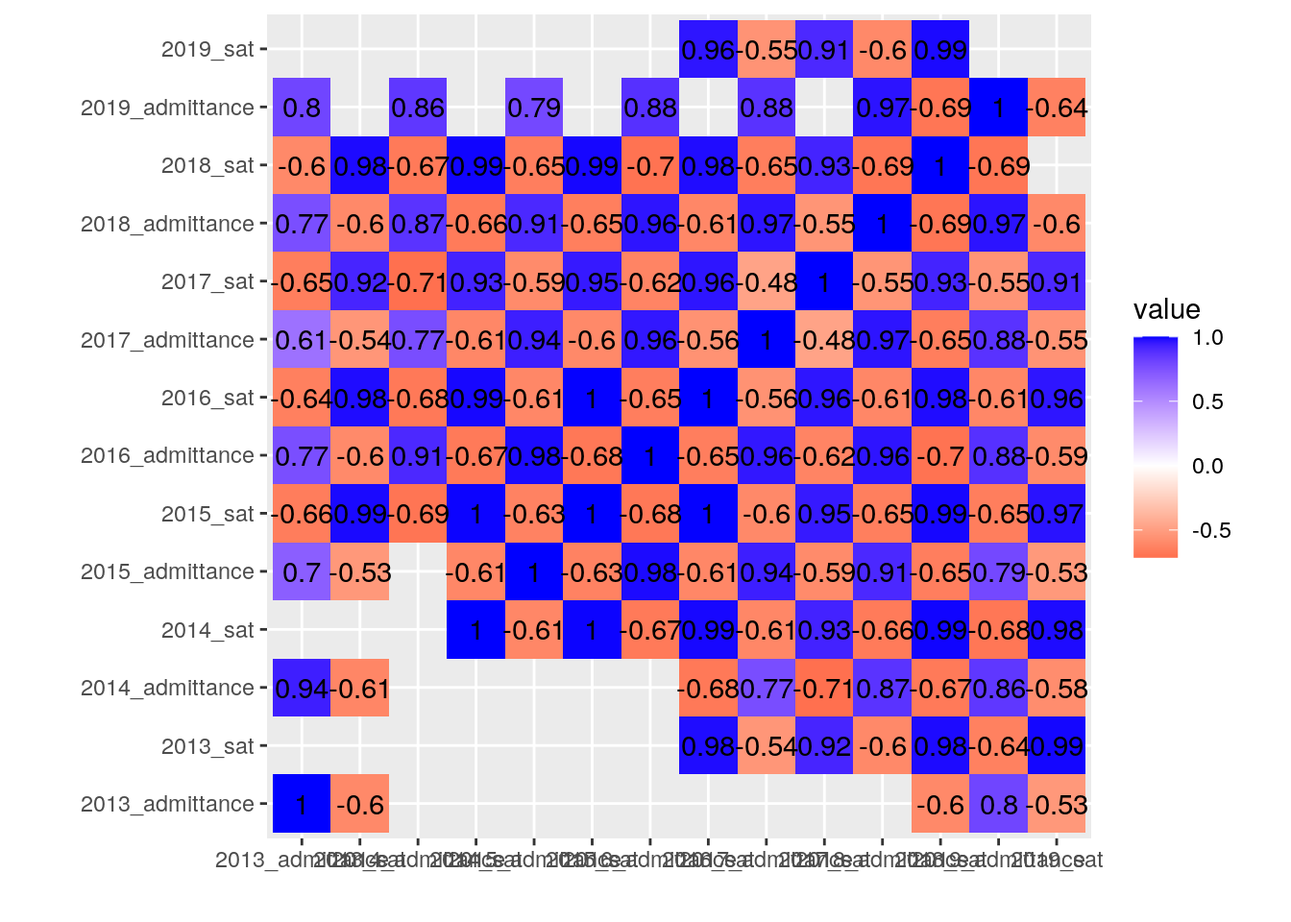
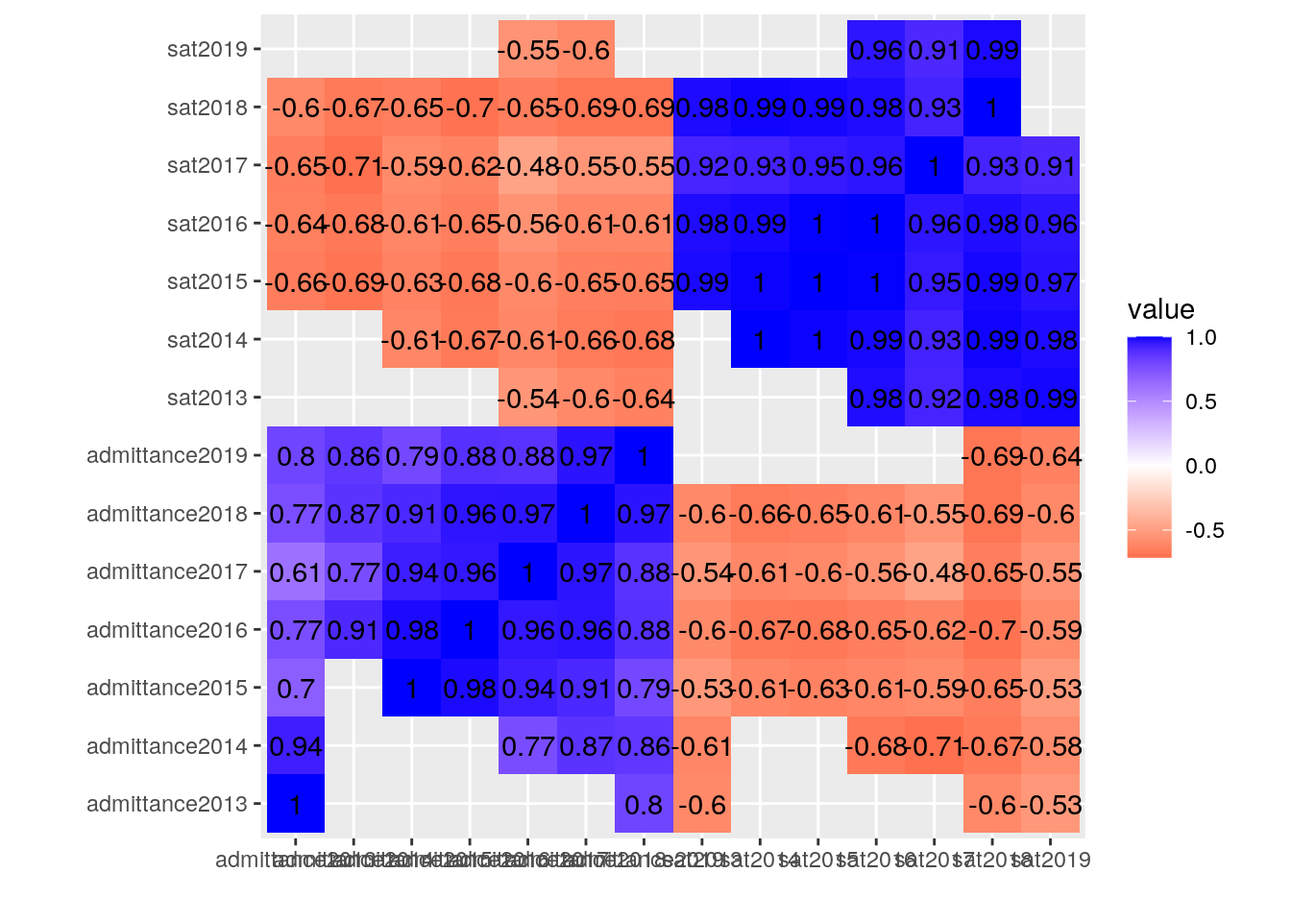
final addition

diff --git a/project/project1/index.html b/project/project1/index.html
@@ -112,91 +112,87 @@ glimpse(testscore)</code></pre>
 dataclean &lt;- data %&gt;% filter(UTBranch == &quot;UT Austin&quot; | UTBranch == 
     &quot;UT Dallas&quot; | UTBranch == &quot;UT Permian Basin&quot; | UTBranch == 
     &quot;UT San Antonio&quot; | UTBranch == &quot;UT Tyler&quot; | UTBranch == &quot;UT Arlington&quot;)
-datarenamed &lt;- dataclean %&gt;% rename(`2013_admittance` = &quot;2013.x&quot;, 
-    `2014_admittance` = &quot;2014.x&quot;, `2015_admittance` = &quot;2015.x&quot;, 
-    `2016_admittance` = &quot;2016.x&quot;, `2017_admittance` = &quot;2017.x&quot;, 
-    `2018_admittance` = &quot;2018.x&quot;, `2019_admittance` = &quot;2019.x&quot;, 
-    `2013_sat` = &quot;2013.y&quot;, `2014_sat` = &quot;2014.y&quot;, `2015_sat` = &quot;2015.y&quot;, 
-    `2016_sat` = &quot;2016.y&quot;, `2017_sat` = &quot;2017.y&quot;, `2018_sat` = &quot;2018.y&quot;, 
-    `2019_sat` = &quot;2019.y&quot;)</code></pre>
+datarenamed &lt;- dataclean %&gt;% rename(admittance2013 = &quot;2013.x&quot;, 
+    admittance2014 = &quot;2014.x&quot;, admittance2015 = &quot;2015.x&quot;, admittance2016 = &quot;2016.x&quot;, 
+    admittance2017 = &quot;2017.x&quot;, admittance2018 = &quot;2018.x&quot;, admittance2019 = &quot;2019.x&quot;, 
+    sat2013 = &quot;2013.y&quot;, sat2014 = &quot;2014.y&quot;, sat2015 = &quot;2015.y&quot;, 
+    sat2016 = &quot;2016.y&quot;, sat2017 = &quot;2017.y&quot;, sat2018 = &quot;2018.y&quot;, 
+    sat2019 = &quot;2019.y&quot;)</code></pre>
 <p>I used filter to select the data specifically for UT Austin. I then arranged the data by the branch that they were from. Next, I used select to call up only the data from 2013, but from all branches. I then went on to calculate various summary statistics for the data including means, standard deviations, medians, and inner quantile ranges.</p>
 <pre class="r"><code>datarenamed %&gt;% filter(str_detect(UTBranch, &quot;Austin&quot;))</code></pre>
 <pre><code>## # A tibble: 1 x 15
-##   UTBranch `2013_admittanc… `2014_admittanc… `2015_admittanc… `2016_admittanc…
-##   &lt;chr&gt;               &lt;dbl&gt;            &lt;dbl&gt;            &lt;dbl&gt;            &lt;dbl&gt;
-## 1 UT Aust…             45.6             45.3             43.8             46.4
-## # … with 10 more variables: `2017_admittance` &lt;dbl&gt;, `2018_admittance` &lt;dbl&gt;,
-## #   `2019_admittance` &lt;dbl&gt;, `2013_sat` &lt;int&gt;, `2014_sat` &lt;int&gt;,
-## #   `2015_sat` &lt;int&gt;, `2016_sat` &lt;int&gt;, `2017_sat` &lt;int&gt;, `2018_sat` &lt;int&gt;,
-## #   `2019_sat` &lt;int&gt;</code></pre>
+##   UTBranch admittance2013 admittance2014 admittance2015 admittance2016
+##   &lt;chr&gt;             &lt;dbl&gt;          &lt;dbl&gt;          &lt;dbl&gt;          &lt;dbl&gt;
+## 1 UT Aust…           45.6           45.3           43.8           46.4
+## # … with 10 more variables: admittance2017 &lt;dbl&gt;, admittance2018 &lt;dbl&gt;,
+## #   admittance2019 &lt;dbl&gt;, sat2013 &lt;int&gt;, sat2014 &lt;int&gt;, sat2015 &lt;int&gt;,
+## #   sat2016 &lt;int&gt;, sat2017 &lt;int&gt;, sat2018 &lt;int&gt;, sat2019 &lt;int&gt;</code></pre>
 <pre class="r"><code>datarenamed %&gt;% arrange(desc(UTBranch))</code></pre>
 <pre><code>## # A tibble: 6 x 15
-##   UTBranch `2013_admittanc… `2014_admittanc… `2015_admittanc… `2016_admittanc…
-##   &lt;chr&gt;               &lt;dbl&gt;            &lt;dbl&gt;            &lt;dbl&gt;            &lt;dbl&gt;
-## 1 UT Tyler             82.1             83.6             64.7             69.3
-## 2 UT San …             62               75.9             77.9             76.4
-## 3 UT Perm…             82.1             86.9             84.6             81.4
-## 4 UT Dall…             69.7             76.9             76.6             75.5
-## 5 UT Aust…             45.6             45.3             43.8             46.4
-## 6 UT Arli…             64.5             66.1             66.4             69.8
-## # … with 10 more variables: `2017_admittance` &lt;dbl&gt;, `2018_admittance` &lt;dbl&gt;,
-## #   `2019_admittance` &lt;dbl&gt;, `2013_sat` &lt;int&gt;, `2014_sat` &lt;int&gt;,
-## #   `2015_sat` &lt;int&gt;, `2016_sat` &lt;int&gt;, `2017_sat` &lt;int&gt;, `2018_sat` &lt;int&gt;,
-## #   `2019_sat` &lt;int&gt;</code></pre>
-<pre class="r"><code>datarenamed %&gt;% select(UTBranch, &quot;2013_admittance&quot;, &quot;2013_sat&quot;)</code></pre>
+##   UTBranch admittance2013 admittance2014 admittance2015 admittance2016
+##   &lt;chr&gt;             &lt;dbl&gt;          &lt;dbl&gt;          &lt;dbl&gt;          &lt;dbl&gt;
+## 1 UT Tyler           82.1           83.6           64.7           69.3
+## 2 UT San …           62             75.9           77.9           76.4
+## 3 UT Perm…           82.1           86.9           84.6           81.4
+## 4 UT Dall…           69.7           76.9           76.6           75.5
+## 5 UT Aust…           45.6           45.3           43.8           46.4
+## 6 UT Arli…           64.5           66.1           66.4           69.8
+## # … with 10 more variables: admittance2017 &lt;dbl&gt;, admittance2018 &lt;dbl&gt;,
+## #   admittance2019 &lt;dbl&gt;, sat2013 &lt;int&gt;, sat2014 &lt;int&gt;, sat2015 &lt;int&gt;,
+## #   sat2016 &lt;int&gt;, sat2017 &lt;int&gt;, sat2018 &lt;int&gt;, sat2019 &lt;int&gt;</code></pre>
+<pre class="r"><code>datarenamed %&gt;% select(UTBranch, &quot;admittance2013&quot;, &quot;sat2013&quot;)</code></pre>
 <pre><code>## # A tibble: 6 x 3
-##   UTBranch         `2013_admittance` `2013_sat`
-##   &lt;chr&gt;                        &lt;dbl&gt;      &lt;int&gt;
-## 1 UT Arlington                  64.5       1060
-## 2 UT Austin                     45.6       1261
-## 3 UT Dallas                     69.7       1261
-## 4 UT Permian Basin              82.1       1020
-## 5 UT San Antonio                62         1061
-## 6 UT Tyler                      82.1       1066</code></pre>
+##   UTBranch         admittance2013 sat2013
+##   &lt;chr&gt;                     &lt;dbl&gt;   &lt;int&gt;
+## 1 UT Arlington               64.5    1060
+## 2 UT Austin                  45.6    1261
+## 3 UT Dallas                  69.7    1261
+## 4 UT Permian Basin           82.1    1020
+## 5 UT San Antonio             62      1061
+## 6 UT Tyler                   82.1    1066</code></pre>
 <pre class="r"><code>datarenamed %&gt;% group_by(UTBranch)</code></pre>
 <pre><code>## # A tibble: 6 x 15
 ## # Groups:   UTBranch [6]
-##   UTBranch `2013_admittanc… `2014_admittanc… `2015_admittanc… `2016_admittanc…
-##   &lt;chr&gt;               &lt;dbl&gt;            &lt;dbl&gt;            &lt;dbl&gt;            &lt;dbl&gt;
-## 1 UT Arli…             64.5             66.1             66.4             69.8
-## 2 UT Aust…             45.6             45.3             43.8             46.4
-## 3 UT Dall…             69.7             76.9             76.6             75.5
-## 4 UT Perm…             82.1             86.9             84.6             81.4
-## 5 UT San …             62               75.9             77.9             76.4
-## 6 UT Tyler             82.1             83.6             64.7             69.3
-## # … with 10 more variables: `2017_admittance` &lt;dbl&gt;, `2018_admittance` &lt;dbl&gt;,
-## #   `2019_admittance` &lt;dbl&gt;, `2013_sat` &lt;int&gt;, `2014_sat` &lt;int&gt;,
-## #   `2015_sat` &lt;int&gt;, `2016_sat` &lt;int&gt;, `2017_sat` &lt;int&gt;, `2018_sat` &lt;int&gt;,
-## #   `2019_sat` &lt;int&gt;</code></pre>
-<pre class="r"><code>datarenamed %&gt;% summarize(mean(&quot;2015_admittance&quot;, na.rm = T), 
+##   UTBranch admittance2013 admittance2014 admittance2015 admittance2016
+##   &lt;chr&gt;             &lt;dbl&gt;          &lt;dbl&gt;          &lt;dbl&gt;          &lt;dbl&gt;
+## 1 UT Arli…           64.5           66.1           66.4           69.8
+## 2 UT Aust…           45.6           45.3           43.8           46.4
+## 3 UT Dall…           69.7           76.9           76.6           75.5
+## 4 UT Perm…           82.1           86.9           84.6           81.4
+## 5 UT San …           62             75.9           77.9           76.4
+## 6 UT Tyler           82.1           83.6           64.7           69.3
+## # … with 10 more variables: admittance2017 &lt;dbl&gt;, admittance2018 &lt;dbl&gt;,
+## #   admittance2019 &lt;dbl&gt;, sat2013 &lt;int&gt;, sat2014 &lt;int&gt;, sat2015 &lt;int&gt;,
+## #   sat2016 &lt;int&gt;, sat2017 &lt;int&gt;, sat2018 &lt;int&gt;, sat2019 &lt;int&gt;</code></pre>
+<pre class="r"><code>datarenamed %&gt;% summarize(mean(&quot;admittance2015&quot;, na.rm = T), 
     n(), n_distinct(UTBranch))</code></pre>
 <pre><code>## # A tibble: 1 x 3
-##   `mean(&quot;2015_admittance&quot;, na.rm = T)` `n()` `n_distinct(UTBranch)`
-##                                  &lt;dbl&gt; &lt;int&gt;                  &lt;int&gt;
-## 1                                   NA     6                      6</code></pre>
-<pre class="r"><code>datarenamed %&gt;% summarize(sd(&quot;2017_sat&quot;, na.rm = T), n(), n_distinct(UTBranch))</code></pre>
-<pre><code>## # A tibble: 1 x 3
-##   `sd(&quot;2017_sat&quot;, na.rm = T)` `n()` `n_distinct(UTBranch)`
-##                         &lt;dbl&gt; &lt;int&gt;                  &lt;int&gt;
-## 1                          NA     6                      6</code></pre>
-<pre class="r"><code>datarenamed %&gt;% summarize(var(&quot;2014_admittance&quot;, na.rm = T), 
-    n(), n_distinct(UTBranch))</code></pre>
-<pre><code>## # A tibble: 1 x 3
-##   `var(&quot;2014_admittance&quot;, na.rm = T)` `n()` `n_distinct(UTBranch)`
+##   `mean(&quot;admittance2015&quot;, na.rm = T)` `n()` `n_distinct(UTBranch)`
 ##                                 &lt;dbl&gt; &lt;int&gt;                  &lt;int&gt;
 ## 1                                  NA     6                      6</code></pre>
-<pre class="r"><code>datarenamed %&gt;% summarize(IQR(&quot;2016_admittance&quot;, na.rm = T), 
-    n(), n_distinct(UTBranch))</code></pre>
+<pre class="r"><code>datarenamed %&gt;% summarize(sd(&quot;sat2017&quot;, na.rm = T), n(), n_distinct(UTBranch))</code></pre>
 <pre><code>## # A tibble: 1 x 3
-##   `IQR(&quot;2016_admittance&quot;, na.rm = T)` `n()` `n_distinct(UTBranch)`
-##                                 &lt;dbl&gt; &lt;int&gt;                  &lt;int&gt;
-## 1                                  NA     6                      6</code></pre>
-<pre class="r"><code>datarenamed %&gt;% summarize(median(&quot;2019_sat&quot;, na.rm = T), n(), 
+##   `sd(&quot;sat2017&quot;, na.rm = T)` `n()` `n_distinct(UTBranch)`
+##                        &lt;dbl&gt; &lt;int&gt;                  &lt;int&gt;
+## 1                         NA     6                      6</code></pre>
+<pre class="r"><code>datarenamed %&gt;% summarize(var(&quot;admittance2014&quot;, na.rm = T), n(), 
     n_distinct(UTBranch))</code></pre>
 <pre><code>## # A tibble: 1 x 3
-##   `median(&quot;2019_sat&quot;, na.rm = T)` `n()` `n_distinct(UTBranch)`
-##   &lt;chr&gt;                           &lt;int&gt;                  &lt;int&gt;
-## 1 2019_sat                            6                      6</code></pre>
+##   `var(&quot;admittance2014&quot;, na.rm = T)` `n()` `n_distinct(UTBranch)`
+##                                &lt;dbl&gt; &lt;int&gt;                  &lt;int&gt;
+## 1                                 NA     6                      6</code></pre>
+<pre class="r"><code>datarenamed %&gt;% summarize(IQR(&quot;admittance2016&quot;, na.rm = T), n(), 
+    n_distinct(UTBranch))</code></pre>
+<pre><code>## # A tibble: 1 x 3
+##   `IQR(&quot;admittance2016&quot;, na.rm = T)` `n()` `n_distinct(UTBranch)`
+##                                &lt;dbl&gt; &lt;int&gt;                  &lt;int&gt;
+## 1                                 NA     6                      6</code></pre>
+<pre class="r"><code>datarenamed %&gt;% summarize(median(&quot;sat2019&quot;, na.rm = T), n(), 
+    n_distinct(UTBranch))</code></pre>
+<pre><code>## # A tibble: 1 x 3
+##   `median(&quot;sat2019&quot;, na.rm = T)` `n()` `n_distinct(UTBranch)`
+##   &lt;chr&gt;                          &lt;int&gt;                  &lt;int&gt;
+## 1 sat2019                            6                      6</code></pre>
 <p>Next I created a correlation heatmap of my numeric variables.</p>
 <pre class="r"><code>cors &lt;- datarenamed %&gt;% select_if(is.numeric) %&gt;% cor()
 cors[lower.tri(datarenamed)] &lt;- NA
@@ -206,39 +202,39 @@ cors %&gt;% as.data.frame %&gt;% rownames_to_column %&gt;% pivot_longer(-1) %&gt
     coord_fixed() + scale_fill_gradient2(low = &quot;red&quot;, high = &quot;blue&quot;)</code></pre>
 <p><img src="../../project/project1_files/figure-html/unnamed-chunk-4-1.png" width="672" style="display: block; margin: auto;" />
 The next plot I made was to show the relationship between</p>
-<pre class="r"><code>dataorganize1 &lt;- datarenamed %&gt;% pivot_longer(c(&quot;2013_admittance&quot;, 
-    &quot;2014_admittance&quot;, &quot;2015_admittance&quot;, &quot;2016_admittance&quot;, 
-    &quot;2017_admittance&quot;, &quot;2018_admittance&quot;, &quot;2019_admittance&quot;), 
-    names_to = &quot;admittance_year&quot;, values_to = &quot;percent_admittance&quot;)
-dataoragnize2 &lt;- dataorganize1 %&gt;% pivot_longer(c(&quot;2013_sat&quot;, 
-    &quot;2014_sat&quot;, &quot;2015_sat&quot;, &quot;2016_sat&quot;, &quot;2017_sat&quot;, &quot;2018_sat&quot;, 
-    &quot;2019_sat&quot;), names_to = &quot;year&quot;, values_to = &quot;avg_sat&quot;)</code></pre>
+<pre class="r"><code>dataorganize1 &lt;- datarenamed %&gt;% pivot_longer(c(&quot;admittance2013&quot;, 
+    &quot;admittance2014&quot;, &quot;admittance2015&quot;, &quot;admittance2016&quot;, &quot;admittance2017&quot;, 
+    &quot;admittance2018&quot;, &quot;admittance2019&quot;), names_to = &quot;admittanceyear&quot;, 
+    values_to = &quot;percentadmittance&quot;)
+dataoragnize2 &lt;- dataorganize1 %&gt;% pivot_longer(c(&quot;sat2013&quot;, 
+    &quot;sat2014&quot;, &quot;sat2015&quot;, &quot;sat2016&quot;, &quot;sat2017&quot;, &quot;sat2018&quot;, &quot;sat2019&quot;), 
+    names_to = &quot;year&quot;, values_to = &quot;avgsat&quot;)</code></pre>
 <p>Then, I made plots showing the correlation between the admittance percentage and SAT score for each year, 2013-2019, in my data set. The data for the different campuses were separated by color as indicated in the legend. You can see, by comparing the data from each year side by side, that the average admittance increased for some campuses, such as UT Arlington, and decreased for others, such as UT Austin. There are also different coordinations based on campus. For example, as UT Arlington’s admittance increased, their average SAT scores also increased, while for UT Austin, as their admissions decreased, their average SAT scores increased.</p>
-<pre class="r"><code>ggplot(datarenamed, aes(&quot;2013_admittance&quot;, &quot;2013_sat&quot;)) + geom_point(size = 4, 
+<pre class="r"><code>ggplot(datarenamed, aes(admittance2013, sat2013)) + geom_point(size = 4, 
     aes(color = UTBranch)) + ggtitle(&quot;Admittance vs. Average SAT Scores: 2013&quot;) + 
     xlab(&quot;Percent Admittance&quot;) + ylab(&quot;Average SAT Scores&quot;)</code></pre>
 <p><img src="../../project/project1_files/figure-html/unnamed-chunk-6-1.png" width="672" style="display: block; margin: auto;" /></p>
-<pre class="r"><code>ggplot(datarenamed, aes(&quot;2014_admittance&quot;, &quot;2014_sat&quot;)) + geom_point(size = 4, 
+<pre class="r"><code>ggplot(datarenamed, aes(admittance2014, sat2014)) + geom_point(size = 4, 
     aes(color = UTBranch)) + ggtitle(&quot;Admittance vs. Average SAT Scores: 2014&quot;) + 
     xlab(&quot;Percent Admittance&quot;) + ylab(&quot;Average SAT Scores&quot;)</code></pre>
 <p><img src="../../project/project1_files/figure-html/unnamed-chunk-6-2.png" width="672" style="display: block; margin: auto;" /></p>
-<pre class="r"><code>ggplot(datarenamed, aes(&quot;2015_admittance&quot;, &quot;2015_sat&quot;)) + geom_point(size = 4, 
+<pre class="r"><code>ggplot(datarenamed, aes(admittance2015, sat2015)) + geom_point(size = 4, 
     aes(color = UTBranch)) + ggtitle(&quot;Admittance vs. Average SAT Scores: 2015&quot;) + 
     xlab(&quot;Percent Admittance&quot;) + ylab(&quot;Average SAT Scores&quot;)</code></pre>
 <p><img src="../../project/project1_files/figure-html/unnamed-chunk-6-3.png" width="672" style="display: block; margin: auto;" /></p>
-<pre class="r"><code>ggplot(datarenamed, aes(&quot;2016_admittance&quot;, &quot;2016_sat&quot;)) + geom_point(size = 4, 
+<pre class="r"><code>ggplot(datarenamed, aes(admittance2016, sat2016)) + geom_point(size = 4, 
     aes(color = UTBranch)) + ggtitle(&quot;Admittance vs. Average SAT Scores: 2016&quot;) + 
     xlab(&quot;Percent Admittance&quot;) + ylab(&quot;Average SAT Scores&quot;)</code></pre>
 <p><img src="../../project/project1_files/figure-html/unnamed-chunk-6-4.png" width="672" style="display: block; margin: auto;" /></p>
-<pre class="r"><code>ggplot(datarenamed, aes(&quot;2017_admittance&quot;, &quot;2017_sat&quot;)) + geom_point(size = 4, 
+<pre class="r"><code>ggplot(datarenamed, aes(admittance2017, sat2017)) + geom_point(size = 4, 
     aes(color = UTBranch)) + ggtitle(&quot;Admittance vs. Average SAT Scores: 2017&quot;) + 
     xlab(&quot;Percent Admittance&quot;) + ylab(&quot;Average SAT Scores&quot;)</code></pre>
 <p><img src="../../project/project1_files/figure-html/unnamed-chunk-6-5.png" width="672" style="display: block; margin: auto;" /></p>
-<pre class="r"><code>ggplot(datarenamed, aes(&quot;2018_admittance&quot;, &quot;2018_sat&quot;)) + geom_point(size = 4, 
+<pre class="r"><code>ggplot(datarenamed, aes(admittance2018, sat2018)) + geom_point(size = 4, 
     aes(color = UTBranch)) + ggtitle(&quot;Admittance vs. Average SAT Scores: 2018&quot;) + 
     xlab(&quot;Percent Admittance&quot;) + ylab(&quot;Average SAT Scores&quot;)</code></pre>
 <p><img src="../../project/project1_files/figure-html/unnamed-chunk-6-6.png" width="672" style="display: block; margin: auto;" /></p>
-<pre class="r"><code>ggplot(datarenamed, aes(&quot;2019_admittance&quot;, &quot;2019_sat&quot;)) + geom_point(size = 4, 
+<pre class="r"><code>ggplot(datarenamed, aes(admittance2019, sat2019)) + geom_point(size = 4, 
     aes(color = UTBranch)) + ggtitle(&quot;Admittance vs. Average SAT Scores: 2019&quot;) + 
     xlab(&quot;Percent Admittance&quot;) + ylab(&quot;Average SAT Scores&quot;)</code></pre>
 <p><img src="../../project/project1_files/figure-html/unnamed-chunk-6-7.png" width="672" style="display: block; margin: auto;" />
@@ -247,49 +243,49 @@ In the case of UT Arlington, as a school in UT’s CAP system, when applicants t
 The six branches currently a part of the CAP program are UT Arlington, El Paso, Permian Basin, Rio Grande Valley, San Antonio, and Tyler. Of those, four are apart of this study. Looking at their data, you can observe a strong increase in admittance at UT Arlington, and a fluctuating increase at UT San Antonio. UT Permian Basin and Tyler, however, show a decrease in admittance. In addition to this, UT Permian Basin also showed a decrease in average SAT score from 2014 to 2016, before increasing overall with the other schools.
 The general increase of admittance and average SAT scores at the CAP system branches of UT align well with UT Austin’s increased average SAT scores and decreased admittance, as more high-achieving students are “CAP-ed” and have to seek admittance at these other branches.</p>
 <p>I then performed k-means clustering on the data from 2013, 2014, and 2019 respectively.</p>
-<pre class="r"><code>clust_dat2013 &lt;- datarenamed %&gt;% select(&quot;2013_admittance&quot;, &quot;2013_sat&quot;)
+<pre class="r"><code>clust_dat2013 &lt;- datarenamed %&gt;% select(&quot;admittance2013&quot;, &quot;sat2013&quot;)
 kmeans2013 &lt;- clust_dat2013 %&gt;% kmeans(3)
 kmeans2013</code></pre>
-<pre><code>## K-means clustering with 3 clusters of sizes 1, 3, 2
+<pre><code>## K-means clustering with 3 clusters of sizes 1, 1, 4
 ## 
 ## Cluster means:
-##   2013_admittance 2013_sat
-## 1        82.10000 1020.000
-## 2        69.53333 1062.333
-## 3        57.65000 1261.000
+##   admittance2013 sat2013
+## 1         45.600 1261.00
+## 2         69.700 1261.00
+## 3         72.675 1051.75
 ## 
 ## Clustering vector:
-## [1] 2 3 3 1 2 2
+## [1] 3 1 2 3 3 3
 ## 
 ## Within cluster sum of squares by cluster:
-## [1]   0.0000 260.6733 290.4050
-##  (between_SS / total_SS =  99.1 %)
+## [1]    0.000    0.000 1723.197
+##  (between_SS / total_SS =  97.2 %)
 ## 
 ## Available components:
 ## 
 ## [1] &quot;cluster&quot;      &quot;centers&quot;      &quot;totss&quot;        &quot;withinss&quot;     &quot;tot.withinss&quot;
 ## [6] &quot;betweenss&quot;    &quot;size&quot;         &quot;iter&quot;         &quot;ifault&quot;</code></pre>
 <pre class="r"><code>kmeans2013clust &lt;- clust_dat2013 %&gt;% mutate(cluster = as.factor(kmeans2013$cluster))
-kmeans2013clust %&gt;% ggplot(aes(&quot;2013_admittance&quot;, &quot;2013_sat&quot;, 
-    color = cluster)) + geom_point()</code></pre>
+kmeans2013clust %&gt;% ggplot(aes(admittance2013, sat2013, color = cluster)) + 
+    geom_point()</code></pre>
 <p><img src="../../project/project1_files/figure-html/unnamed-chunk-7-1.png" width="672" style="display: block; margin: auto;" />
 For the 2013 data, there were three clusters of size two. There was a 95.4% compactness of the clustering, meaning that there was high similarity between the members in that same group. The cluster means for admittance percentages were 72, 66, and 164, while the cluster means for the average SAT scores were 1060.5, 1261, and 1043. This showed a high similarity between the average SAT scores that year, especially when compared to the admittance percentages, whose means were more scattered and dissimilar.</p>
-<pre class="r"><code>clust_dat2014 &lt;- datarenamed %&gt;% select(&quot;2014_admittance&quot;, &quot;2014_sat&quot;)
+<pre class="r"><code>clust_dat2014 &lt;- datarenamed %&gt;% select(&quot;admittance2014&quot;, &quot;sat2014&quot;)
 kmeans2014 &lt;- clust_dat2014 %&gt;% kmeans(3)
 kmeans2014</code></pre>
-<pre><code>## K-means clustering with 3 clusters of sizes 2, 3, 1
+<pre><code>## K-means clustering with 3 clusters of sizes 1, 3, 2
 ## 
 ## Cluster means:
-##   2014_admittance 2014_sat
-## 1            61.1 1271.500
-## 2            75.2 1053.333
-## 3            86.9  988.000
+##   admittance2014  sat2014
+## 1           86.9  988.000
+## 2           75.2 1053.333
+## 3           61.1 1271.500
 ## 
 ## Clustering vector:
-## [1] 2 1 1 3 2 2
+## [1] 2 3 3 1 2 2
 ## 
 ## Within cluster sum of squares by cluster:
-## [1] 979.7800 266.5267   0.0000
+## [1]   0.0000 266.5267 979.7800
 ##  (between_SS / total_SS =  98.4 %)
 ## 
 ## Available components:
@@ -297,26 +293,26 @@ kmeans2014</code></pre>
 ## [1] &quot;cluster&quot;      &quot;centers&quot;      &quot;totss&quot;        &quot;withinss&quot;     &quot;tot.withinss&quot;
 ## [6] &quot;betweenss&quot;    &quot;size&quot;         &quot;iter&quot;         &quot;ifault&quot;</code></pre>
 <pre class="r"><code>kmeans2014clust &lt;- clust_dat2014 %&gt;% mutate(cluster = as.factor(kmeans2014$cluster))
-kmeans2014clust %&gt;% ggplot(aes(&quot;2014_admittance&quot;, &quot;2014_sat&quot;, 
-    color = cluster)) + geom_point()</code></pre>
+kmeans2014clust %&gt;% ggplot(aes(admittance2014, sat2014, color = cluster)) + 
+    geom_point()</code></pre>
 <p><img src="../../project/project1_files/figure-html/unnamed-chunk-8-1.png" width="672" style="display: block; margin: auto;" />
 For the 2014 data, there were three clusters of sizes 1, 1, and 4. There was a 89.1% compactness of the clustering, meaning that there was high similarity between the members in that same group, but less than in 2013. The cluster means for admittance percentages were 31, 133, and 145, while the cluster means for the average SAT scores were 1287, 1256, and 1037. This again showed a high similarity between the average SAT scores that year, especially when compared to the admittance percentages, whose means were more scattered and dissimilar. This repeated disparity could be explained by the unique looking data coming from UT Austin, which, as mentioned earlier, as an effect of being the main campus of the university has a significantly lower acceptance percentage due to the much greater volume of applicants it receives every year. So, while it has a similar average SAT score of applicants, albeit slightly higher, it’s acceptance percentage is much lower than the other campuses, skewing the cluster means.</p>
-<pre class="r"><code>clust_dat2019 &lt;- datarenamed %&gt;% select(&quot;2019_admittance&quot;, &quot;2019_sat&quot;)
+<pre class="r"><code>clust_dat2019 &lt;- datarenamed %&gt;% select(admittance2019, sat2019)
 kmeans2019 &lt;- clust_dat2019 %&gt;% kmeans(3)
 kmeans2019</code></pre>
 <pre><code>## K-means clustering with 3 clusters of sizes 2, 2, 2
 ## 
 ## Cluster means:
-##   2019_admittance 2019_sat
-## 1           77.65   1128.0
-## 2           56.25   1344.5
-## 3           83.00   1155.0
+##   admittance2019 sat2019
+## 1          77.65  1128.0
+## 2          83.00  1155.0
+## 3          56.25  1344.5
 ## 
 ## Clustering vector:
-## [1] 3 2 2 1 1 3
+## [1] 2 3 3 1 1 2
 ## 
 ## Within cluster sum of squares by cluster:
-## [1]  10.205 999.545 128.020
+## [1]  10.205 128.020 999.545
 ##  (between_SS / total_SS =  98.0 %)
 ## 
 ## Available components:
@@ -324,8 +320,8 @@ kmeans2019</code></pre>
 ## [1] &quot;cluster&quot;      &quot;centers&quot;      &quot;totss&quot;        &quot;withinss&quot;     &quot;tot.withinss&quot;
 ## [6] &quot;betweenss&quot;    &quot;size&quot;         &quot;iter&quot;         &quot;ifault&quot;</code></pre>
 <pre class="r"><code>kmeans2019clust &lt;- clust_dat2019 %&gt;% mutate(cluster = as.factor(kmeans2019$cluster))
-kmeans2019clust %&gt;% ggplot(aes(&quot;2019_admittance&quot;, &quot;2019_sat&quot;, 
-    color = cluster)) + geom_point()</code></pre>
+kmeans2019clust %&gt;% ggplot(aes(admittance2019, sat2019, color = cluster)) + 
+    geom_point()</code></pre>
 <p><img src="../../project/project1_files/figure-html/unnamed-chunk-9-1.png" width="672" style="display: block; margin: auto;" />
 For the 2019 data, there were once again three clusters of size two. There was an 88% compactness of the clustering, meaning that there was high similarity between the members in that same group, but once again lower than in 2013, showing a decreasing trend in compactness over the years observed in this dataset. The cluster means for admittance percentages were 77.5, 171.5, and 137, while the cluster means for the average SAT scores were 1344.5, 1155, and 1128. Once again there is a high similarity between the average scores that year, especially when compared to the admittance percentages, whose means were more scattered and dissimilar. Comparing these means with those in 2013, you can see a mean increase in the average SAT score of applicants while the admittance percentages stay about the same. However, comparing 2019’s data with that from 2014 sees an increase in admittance percentage cluster means, possibly due to the differences in cluster size used in that k-means clustering.</p>
 </div>
